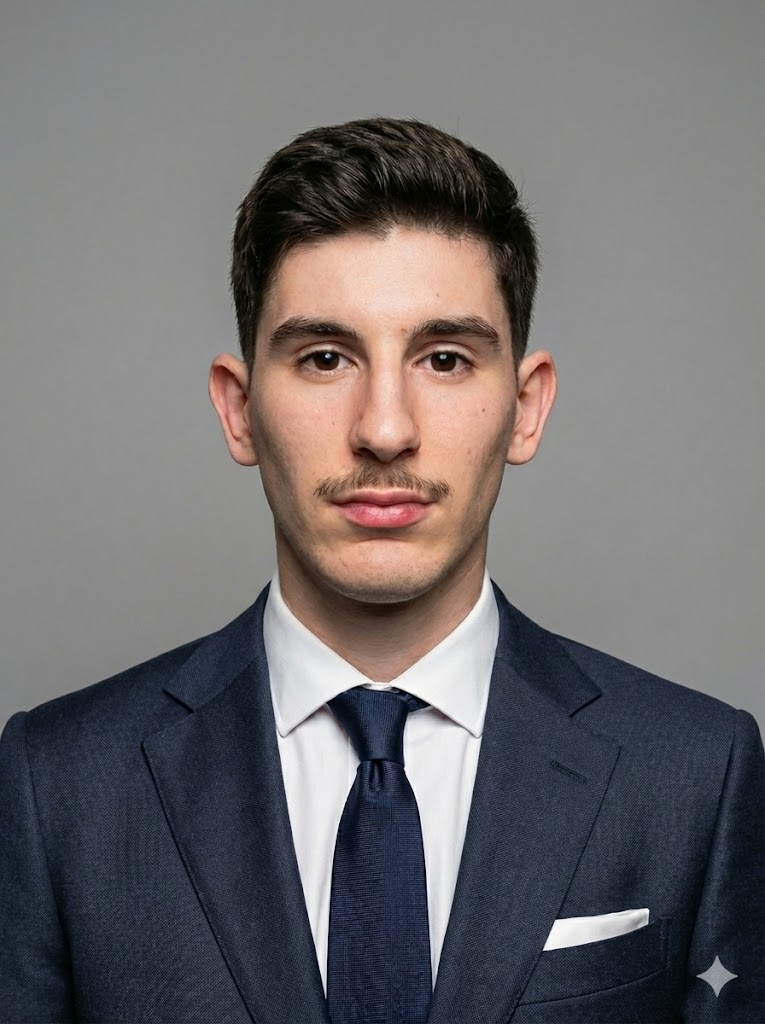
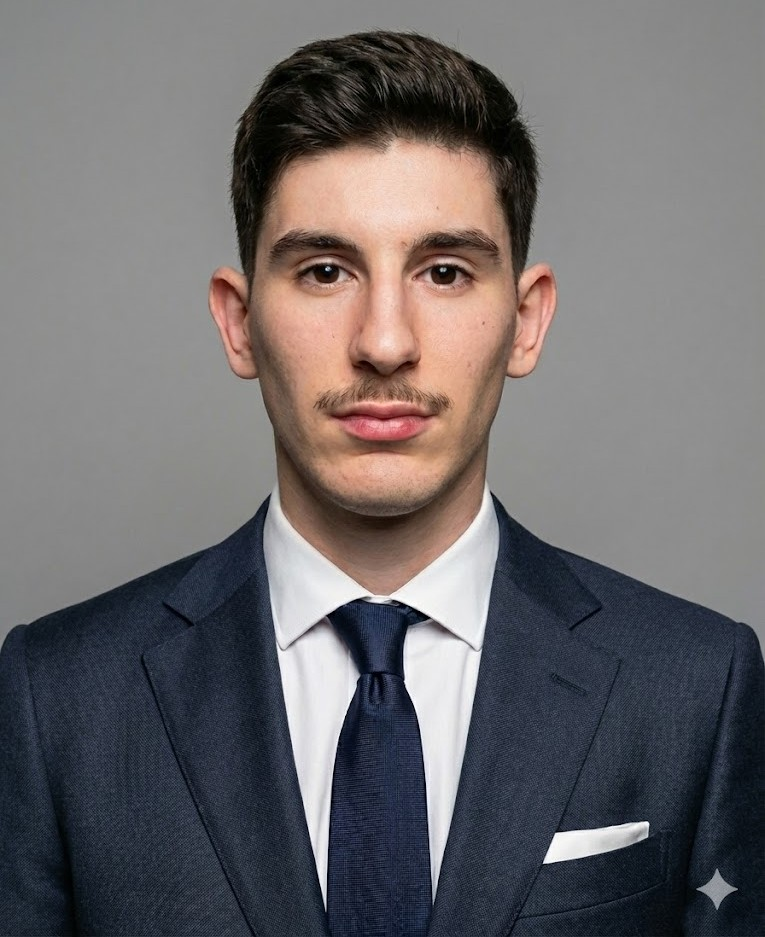
update

diff --git a/HTML/profile.html b/HTML/profile.html
@@ -11,8 +11,8 @@
     <link href="https://fonts.googleapis.com/css2?family=Playfair+Display:wght@700&family=Lato:wght@300;400;700&display=swap" rel="stylesheet">
     <link rel="stylesheet" href="https://cdnjs.cloudflare.com/ajax/libs/font-awesome/6.4.0/css/all.min.css">
     
-    <link rel="stylesheet" href="./CSS/nav.css">
-    <link rel="stylesheet" href="./CSS/global.css">
+    <link rel="stylesheet" href="../CSS/nav.css">
+    <link rel="stylesheet" href="../CSS/global.css">
     
     <link rel="icon" href="../img/Logo-Webdoc.png">
 
@@ -32,6 +32,15 @@
             color: var(--text-main);
             font-family: 'Lato', sans-serif;
             margin: 0;
+        }
+
+        img {
+            /* Empêche de glisser-déposer l'image sur le bureau */
+            -webkit-user-drag: none;
+            user-drag: none;
+            /* Empêche la sélection bleue quand on clique dessus */
+            user-select: none;
+            -webkit-user-select: none;
         }
 
         /* En-tête de la page */
@@ -77,7 +86,7 @@
             gap: 60px;
         }
 
-        /* Inverse l'ordre image/texte pour le 2ème profil (optionnel, supprimez "flex-direction" si vous voulez tout pareil) */
+        /* Inverse l'ordre image/texte pour le 2ème profil */
         .profile-section:nth-child(even) .container-profile {
             flex-direction: row-reverse;
         }
@@ -90,21 +99,35 @@
             position: relative;
         }
 
-        .profile-img {
-            width: 100%;
-            height: auto;
-            aspect-ratio: 1/1; /* Force le format carré */
-            object-fit: cover;
-            border-radius: 12px;
+        /* --- CORRECTIF IMAGE --- */
+        .profile-img-container {
+            width: 300px; /* Taille du cercle */
+            height: 300px;
+            border-radius: 50%;
+            overflow: hidden; /* Coupe ce qui dépasse */
+            margin: 0 auto 25px auto;
             box-shadow: 0 20px 40px rgba(0,0,0,0.1);
-            margin-bottom: 25px;
-            filter: grayscale(20%); /* Petit effet artistique (optionnel) */
-            transition: all 0.3s ease;
+            border: 3px solid var(--primary-green);
+            background-color: #f0f0f0; /* Fond gris si l'image n'est pas carrée */
+            display: flex;
+            justify-content: center;
+            align-items: center;
         }
 
+        .profile-img {
+            width: 100%;
+            height: 100%;
+            object-fit: cover; /* "contain" pour ne pas couper, "cover" pour remplir */
+            /* Pour votre photo rectangulaire, mettez object-fit: contain; si vous voulez voir toute l'image, mais ça laissera des bandes. 
+               Si vous voulez zoomer sans couper la tête, il faut recadrer l'image avant. 
+               Pour l'instant, je laisse 'cover' mais je centre l'image */
+            object-position: center top; /* Centre horizontalement, cale en haut verticalement */
+            transition: all 0.3s ease;
+        }
+        /* ---------------------- */
+
         .profile-visual:hover .profile-img {
-            filter: grayscale(0%);
-            transform: translateY(-5px);
+            transform: scale(1.05);
         }
 
         /* Les réseaux sociaux sous la photo */
@@ -207,8 +230,8 @@
 
     <header class="header">
         <div class="header-container">
-            <a href="./HTML/page.html" class="brand-container">
-                <img src="./img/Logo-Webdoc.png" alt="Logo Face Lumière" class="logo-img">
+            <a href="../HTML/page.html" class="brand-container">
+                <img src="../img/Logo-Webdoc.png" alt="Logo Face Lumière" class="logo-img">
                 <div class="brand-text">
                     <span class="site-title">Face Lumière</span>
                     <span class="site-subtitle">L'énergie de demain</span>
@@ -221,10 +244,10 @@
             </button>
             <nav class="nav-links">
                 <ul>
-                    <li><a href="./HTML/page.html">Accueil</a></li>
-                    <li><a href="#" class="active">Article 1</a></li>
-                    <li><a href="./HTML/article2.html">Article 2</a></li>
-                    <li><a href="./HTML/gallery.html">Galerie Photo</a></li>
+                    <li><a href="../HTML/page.html">Accueil</a></li>
+                    <li><a href="../HTML/article1.html">Article 1</a></li>
+                    <li><a href="../HTML/article2.html">Article 2</a></li>
+                    <li><a href="../HTML/gallery.html">Galerie Photo</a></li>
                 </ul>
             </nav>
         </div>
@@ -240,12 +263,14 @@
             </p>
         </section>
 
-        <section class="profile-section">
+        <section class="profile-section" id="timeo">
             <div class="container-profile">
                 
                 <div class="profile-visual">
-                    <img src="https://images.unsplash.com/photo-1500648767791-00dcc994a43e?ixlib=rb-4.0.3&auto=format&fit=crop&w=800&q=80" 
-                         alt="Timéo Da Costa" class="profile-img">
+                    <div class="profile-img-container">
+                        <img src="../img/proT.jpg" 
+                             alt="Timéo Da Costa" class="profile-img">
+                    </div>
                     
                     <div class="social-bar">
                         <a href="#" class="social-btn"><i class="fab fa-instagram"></i></a>
@@ -289,12 +314,14 @@
         </section>
 
 
-        <section class="profile-section">
+        <section class="profile-section" id="axel">
             <div class="container-profile">
                 
                 <div class="profile-visual">
-                    <img src="https://images.unsplash.com/photo-1506794778202-cad84cf45f1d?ixlib=rb-4.0.3&auto=format&fit=crop&w=800&q=80" 
-                         alt="Nom de l'ami" class="profile-img">
+                    <div class="profile-img-container">
+                        <img src="../img/proA.jpg" 
+                             alt="Nom de l'ami" class="profile-img">
+                    </div>
                     
                     <div class="social-bar">
                         <a href="#" class="social-btn"><i class="fab fa-instagram"></i></a>
@@ -305,7 +332,7 @@
                 <div class="profile-content">
                     <span class="role-tag">Direction Artistique & Montage</span>
                     
-                    <h2 class="profile-name">Prénom Nom</h2>
+                    <h2 class="profile-name">Axel Treffault</h2>
                     
                     <p class="bio-text">
                         Passionné par l'esthétique visuelle et le montage, je m'occupe de tout ce qui se voit à l'écran. 
@@ -340,5 +367,13 @@
     </main>
 
     <script src="../JS/script.js"></script>
+    <script>
+        document.addEventListener('contextmenu', function(e) {
+            // Si l'élément cliqué est une image, on bloque le menu
+            if (e.target.tagName === 'IMG') {
+                e.preventDefault();
+            }
+        });
+    </script>
 </body>
 </html>

diff --git a/HTML/article2.html b/HTML/article2.html
@@ -59,7 +59,7 @@
                         encore qu'un symbole parmi d'autres ?
                     </p>
                 </div>
-                <p class="article-author">Par <a href="#">Axel Treffault</a></p>
+                <p class="article-author">Par <a href="./profile.html#axel">Axel Treffault</a></p>
                 <p class="article-date">Publié le 24 Novembre 2025 à 17h56 | <i class="fa fa-clock"></i> Lecture 3 min.
                 </p>
 

diff --git a/HTML/article1.html b/HTML/article1.html
@@ -62,7 +62,7 @@
                     </p>
                 </div>
 
-                <p class="article-author">Par <a href="#">Timéo Da Costa</a></p>
+                <p class="article-author">Par <a href="./profile.html#timeo">Timéo Da Costa</a></p>
                 <p class="article-date">Publié le 25 Novembre 2025 à 14h44 | <i class="fa fa-clock"></i> Lecture 3 min.
                 </p>
 
